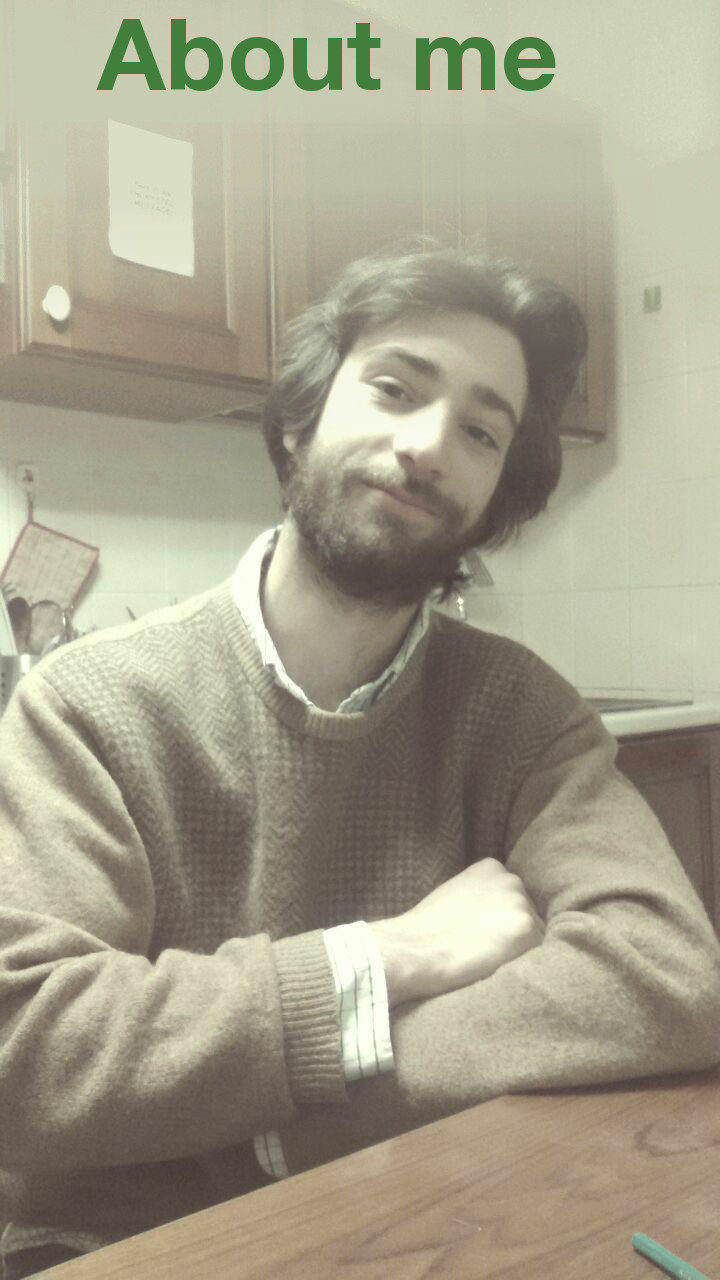
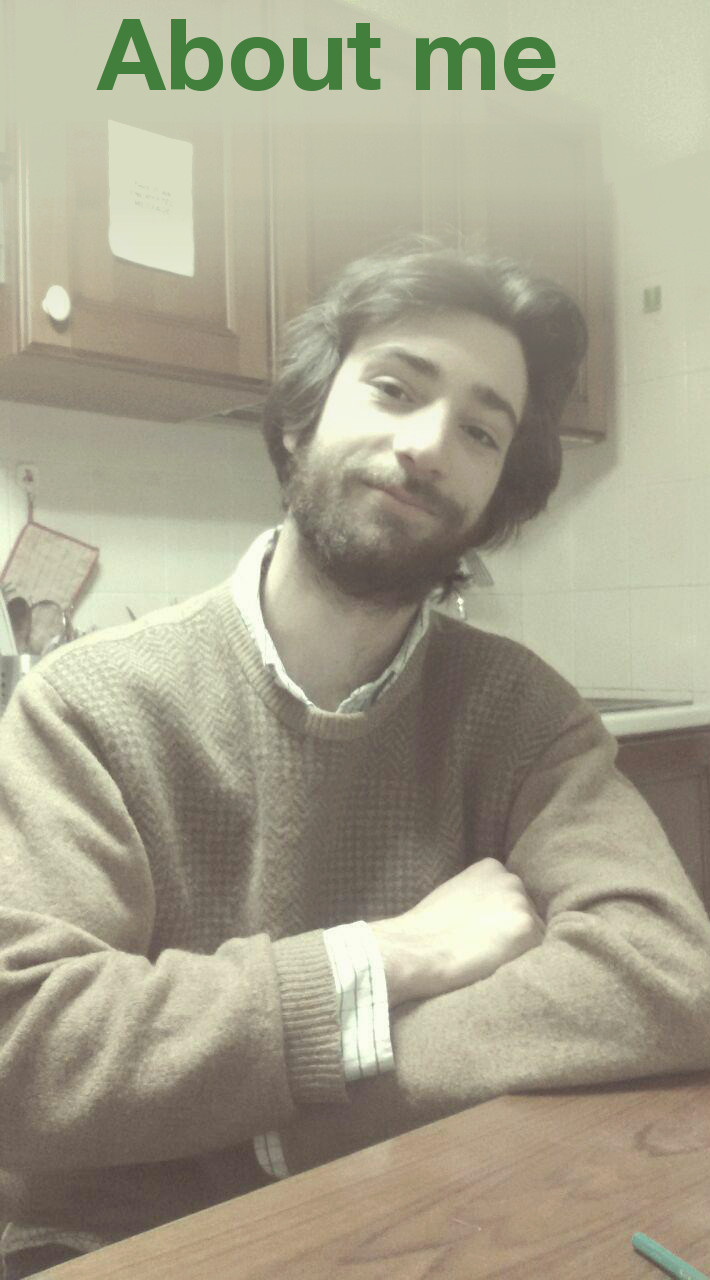
added bio and images

diff --git a/docs/about.html b/docs/about.html
@@ -178,6 +178,9 @@ $(document).ready(function () {
     </div>
     <div id="navbar" class="navbar-collapse collapse">
       <ul class="nav navbar-nav">
+        
+      </ul>
+      <ul class="nav navbar-nav navbar-right">
         <li>
   <a href="about.html">About</a>
 </li>
@@ -188,11 +191,8 @@ $(document).ready(function () {
   <a href="bookshelf.html">Bookshelf</a>
 </li>
 <li>
-  <a href="about.html#Contacts">Contact</a>
+  <a href="about.html#Contact me">Contact</a>
 </li>
-      </ul>
-      <ul class="nav navbar-nav navbar-right">
-        
       </ul>
     </div><!--/.nav-collapse -->
   </div><!--/.container -->
@@ -207,9 +207,37 @@ $(document).ready(function () {
 </div>
 
 
-<p>I obtained my BA degree in Social Psychology at University of Padua in September 2017, with an experimental thesis on 2D-3D face recognition result of the work carried out in the <a href="facelab.org">FaceLab</a>. I am now working in that same Lab for my MSc in Research Methods of Psychological Science, within the KINSHIP project.</p>
+<p><img src="images/profile.jpg" 
+  style="width: 33%; 
+       float: left;
+       padding-right: 30px;
+       padding-bottom: 1000px"></p>
+<div id="personal-history" class="section level1">
+<h1>Personal History</h1>
+<p>I was born in Tuscany in November of 1994.</p>
+<p>Second of four siblings, I spent the first part of my life in a very little town called Belforte (literally: strong and beautiful) discovering with passion the wonders of nature and animals.</p>
+<p>My days there circled around few activities: going to school, playing football, playing the cello, and chasing my dream of becoming a magician. Also, I used to read lots of books, many more than what I manage to read now.</p>
+<p>Since always led by a deep curiosity about people, minds, behaviours, and their evolution, after the high school I undertook the path of Psychology and left home for the first time: one of the best Univeristies in Italy had accepted my application!</p>
+<p>University gave me much clearer formulations for my questions, but very few answers regarding the mind and the counsciosness; so I decided to takle the issue from an evolutionary point of view.</p>
+<p>= = = = = = = = = = = = = = = = = = = = = = = = = = = = = = = = = = = = = = = = = = = = = = = = = = = = = = = = = = = = = =</p>
+</div>
+<div id="studies" class="section level1">
+<h1>Studies</h1>
+<p>In September 2017 I obtained my BA degree in Social Psychology at University of Padua with an experimental thesis on 2D-3D face recognition, result of the work carried out in the <a href="facelab.org">FaceLab</a>.</p>
+<p>Since after that I am working in that same Lab for my MSc in Research Methods of Psychological Science, at University of Glasgow.</p>
 <p>My current research focuses on the understanding of how humans recognise their kin. More specifically, what kind of cues in the face let others to assest the relatedness between two individuals.</p>
-<p>#Contacts</p>
+<p>= = = = = = = = = = = = = = = = = = = = = = = = = = = = = = = = = = = = = = = = = = = = = = = = = = = = = = = = = = = = = =</p>
+</div>
+<div id="contact-me" class="section level1">
+<h1>Contact me</h1>
+<p><img src="images/mail.png"
+ style="width: 20px"> <a href="2356605q@student.gla.ac.uk" class="uri">2356605q@student.gla.ac.uk</a></p>
+<p><a href="https://orcid.org/0000-0003-1603-6019" target="orcid.widget" rel="noopener noreferrer" style="vertical-align:top;"><img src="https://orcid.org/sites/default/files/images/orcid_16x16.png" style="width:1em;margin-right:.5em;" alt="ORCID iD icon">orcid.org/0000-0003-1603-6019</a></p>
+<p><a target="_blank" title="follow me on facebook" href="http://www.facebook.com/tommaso.querci.5"><img alt="follow me on facebook" src="https://c866088.ssl.cf3.rackcdn.com/assets/facebook30x30.png" border=0></a> <a target="_blank" title="follow me on Twitter" href="http://www.twitter.com/tommy_oak"><img alt="follow me on Twitter" src="https://c866088.ssl.cf3.rackcdn.com/assets/twitter30x30.png" border=0></a> <a href="https://www.researchgate.net/profile/Tommaso_Querci"><img src="images/RG_square_green.jpg"
+ style="width: 30px"></a> <a href="https://www.osf.io/xj5kp"><img src="images/osf_logo.png"
+ style="width: 30px"></a> <a href="https://github.com/Quercit"><img src="images/github-logo.png"
+ style="width: 30px"></a></p>
+</div>
 
 
 

diff --git a/docs/index.html b/docs/index.html
@@ -178,6 +178,9 @@ $(document).ready(function () {
     </div>
     <div id="navbar" class="navbar-collapse collapse">
       <ul class="nav navbar-nav">
+        
+      </ul>
+      <ul class="nav navbar-nav navbar-right">
         <li>
   <a href="about.html">About</a>
 </li>
@@ -190,9 +193,6 @@ $(document).ready(function () {
 <li>
   <a href="about.html#Contacts">Contact</a>
 </li>
-      </ul>
-      <ul class="nav navbar-nav navbar-right">
-        
       </ul>
     </div><!--/.nav-collapse -->
   </div><!--/.container -->
@@ -208,17 +208,17 @@ $(document).ready(function () {
 
 
 <p>Postgraduate student at <a href="http://www.gla.ac.uk/researchinstitutes/neurosciencepsychology/">Institute of Neuroscience and Psychology</a>, <a href="https://www.gla.ac.uk/">University of Glasgow</a>, with <a href="https://github.com/debruine">Lisa DeBruine</a></p>
-<p><a href="https://quercit.github.io/home/about.html"><img src="images/profG.jpg" 
+<p><a href="about.html"><img src="images/profG.jpg" 
   style="width: 33%; 
        float: left;
        padding-right: 10px;"></a></p>
-<p><a href="https://quercit.github.io/home/research.html"><img src="images/uofg.jpg" 
+<p><a href="research.html"><img src="images/uofg1.jpg" 
   style="width: 33%; 
        float: left;
        padding-right: 10px;"></a></p>
-<p><a href="https://quercit.github.io/home/bookshelf.html"><img src="images/bookshelfR.jpg" 
+<p><a href="bookshelf.html"><img src="images/bookshelf_R.jpg" 
   style="width: 33%; 
-       float: left;(
+       float: left;
        padding-right: 10px;"></a></p>
 
 

diff --git a/docs/bookshelf.html b/docs/bookshelf.html
@@ -11,7 +11,7 @@
 
 
 
-<title>bookshelf</title>
+<title>Bookshelf</title>
 
 <script src="site_libs/jquery-1.11.3/jquery.min.js"></script>
 <meta name="viewport" content="width=device-width, initial-scale=1" />
@@ -202,12 +202,15 @@ $(document).ready(function () {
 
 
 
-<h1 class="title toc-ignore">bookshelf</h1>
+<h1 class="title toc-ignore">Bookshelf</h1>
 
 </div>
 
 
-
+<p><img src="images/bookshelf_plain.jpeg" 
+  style="width: 33%; 
+       float: left;
+       padding-right: 10px;"></p>
 
 
 

diff --git a/docs/research.html b/docs/research.html
@@ -207,6 +207,10 @@ $(document).ready(function () {
 </div>
 
 
+<p><img src="images/uofg_plain.jpg" 
+  style="width: 33%; 
+       float: left;
+       padding-right: 10px;"></p>
 <div id="study" class="section level1">
 <h1>Study</h1>
 <p>2017 - Now <a href="https://www.gla.ac.uk/postgraduate/taught/psychologicalscienceresearchmethodsof/">Research Methods in Psychology</a> at University of Glasgow</p>
